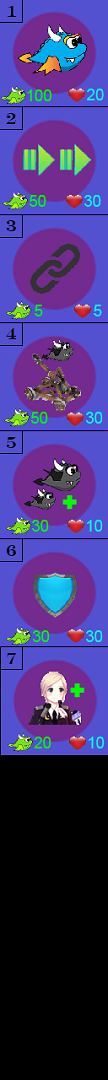
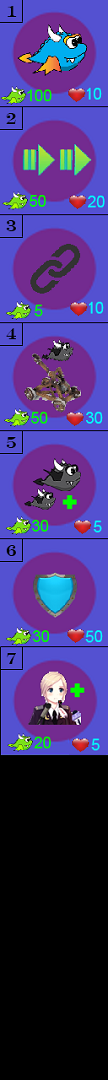
New "v7" paradigm: no Green Fluxors, player autoregen

diff --git a/Unstable/StarFighter/StarFighter/InGameState.cpp b/Unstable/StarFighter/StarFighter/InGameState.cpp
@@ -150,19 +150,19 @@ void InGameState::Initialize(Player player)
 	}
 
 	//Spawning Fluxors
-	m_fluxor_spawn_zones.push_back(FluxorSpawnZone(sf::FloatRect(0, 0, W / 2, H / 2), FLUXOR_MAX_POPULATION / 6));
-	m_fluxor_spawn_zones.push_back(FluxorSpawnZone(sf::FloatRect(0, H / 2, W / 2, H / 2), FLUXOR_MAX_POPULATION / 6));
-	m_fluxor_spawn_zones.push_back(FluxorSpawnZone(sf::FloatRect(W / 2, 0, W / 2, H / 2), FLUXOR_MAX_POPULATION / 6));
-	m_fluxor_spawn_zones.push_back(FluxorSpawnZone(sf::FloatRect(W / 2, H / 2, W / 2, H / 2), FLUXOR_MAX_POPULATION / 6));
-	//main central zone
-	for (int i = 0; i < NBVAL_PlayerTeams; i++)
-	{
-		//spawning a new lot of Fluxors based on the number of players
-		if ((*CurrentGame).playerShips[i] && i != PlayerNeutral)
-		{
-			m_fluxor_spawn_zones.push_back(FluxorSpawnZone(sf::FloatRect(W / 2 - CENTRAL_FLUXOR_ZONE_TILE_OFFSET, H / 2 - CENTRAL_FLUXOR_ZONE_TILE_OFFSET, 2 * CENTRAL_FLUXOR_ZONE_TILE_OFFSET, 2 * CENTRAL_FLUXOR_ZONE_TILE_OFFSET), FLUXOR_MAX_POPULATION / 3));
-		}
-	}
+	//m_fluxor_spawn_zones.push_back(FluxorSpawnZone(sf::FloatRect(0, 0, W / 2, H / 2), FLUXOR_MAX_POPULATION / 6));
+	//m_fluxor_spawn_zones.push_back(FluxorSpawnZone(sf::FloatRect(0, H / 2, W / 2, H / 2), FLUXOR_MAX_POPULATION / 6));
+	//m_fluxor_spawn_zones.push_back(FluxorSpawnZone(sf::FloatRect(W / 2, 0, W / 2, H / 2), FLUXOR_MAX_POPULATION / 6));
+	//m_fluxor_spawn_zones.push_back(FluxorSpawnZone(sf::FloatRect(W / 2, H / 2, W / 2, H / 2), FLUXOR_MAX_POPULATION / 6));
+	////main central zone
+	//for (int i = 0; i < NBVAL_PlayerTeams; i++)
+	//{
+	//	//spawning a new lot of Fluxors based on the number of players
+	//	if ((*CurrentGame).playerShips[i] && i != PlayerNeutral)
+	//	{
+	//		m_fluxor_spawn_zones.push_back(FluxorSpawnZone(sf::FloatRect(W / 2 - CENTRAL_FLUXOR_ZONE_TILE_OFFSET, H / 2 - CENTRAL_FLUXOR_ZONE_TILE_OFFSET, 2 * CENTRAL_FLUXOR_ZONE_TILE_OFFSET, 2 * CENTRAL_FLUXOR_ZONE_TILE_OFFSET), FLUXOR_MAX_POPULATION / 3));
+	//	}
+	//}
 }
 
 void InGameState::Update(sf::Time deltaTime)

diff --git a/Unstable/StarFighter/StarFighter/Module.cpp b/Unstable/StarFighter/StarFighter/Module.cpp
@@ -179,7 +179,7 @@ Module::Module(ModuleType moduleType, PlayerTeams team)
 		case ModuleType_Generator:
 		{	 
 			m_flux_max_under_construction = 100;
-			m_flux_max_after_construction = 20;
+			m_flux_max_after_construction = 10;
 			m_isAutogeneratingFlux = true;
 			m_flux_autogeneration_time = 0.5f;
 			m_isGeneratingFluxor = true;
@@ -191,7 +191,7 @@ Module::Module(ModuleType moduleType, PlayerTeams team)
 		case ModuleType_Armory:
 		{
 			m_flux_max_under_construction = 20;
-			m_flux_max_after_construction = 10;
+			m_flux_max_after_construction = 5;
 			m_upgrade_player_stats = true;
 			break;
 		}
@@ -209,7 +209,7 @@ Module::Module(ModuleType moduleType, PlayerTeams team)
 		case ModuleType_Relay:
 		{
 			m_flux_max_under_construction = 5;
-			m_flux_max_after_construction = 5;
+			m_flux_max_after_construction = 10;
 			m_isRefillingFlux = true;
 			m_construction_flux_per_second = 1.0f * MODULE_FLUX_CONSTRUCTION_PER_SECOND / 2;
 			break;
@@ -237,7 +237,7 @@ Module::Module(ModuleType moduleType, PlayerTeams team)
 		case ModuleType_Shield:
 		{
 			m_flux_max_under_construction = 30;
-			m_flux_max_after_construction = 30;
+			m_flux_max_after_construction = 50;
 			m_shield_range = 1;
 			break;
 		}
@@ -255,7 +255,7 @@ Module::Module(ModuleType moduleType, PlayerTeams team)
 		case ModuleType_Amplifier:
 		{
 			m_flux_max_under_construction = 30;
-			m_flux_max_after_construction = 10;
+			m_flux_max_after_construction = 5;
 			m_add_flux = 1;
 			break;
 		}

diff --git a/Unstable/StarFighter/StarFighter/FluxEntity.cpp b/Unstable/StarFighter/StarFighter/FluxEntity.cpp
@@ -122,16 +122,19 @@ bool FluxEntity::AutogenerateFlux()
 				m_flux++;
 				m_flux_autogeneration_clock.restart();
 
-				//feedback
-				if (USE_FEEDBACK_AUTOGENERATION)
+				if (m_flux_max > 0)
 				{
-					SFText* text_feedback = new SFText((*CurrentGame).m_fonts[Font_Arial], 24, sf::Color::Cyan, getPosition(), m_team);
-					text_feedback->m_alliance = m_alliance;
-					text_feedback->setString("+1");
-					SFTextPop* pop_feedback = new SFTextPop(text_feedback, TEXT_POP_DISTANCE_NOT_FADED, TEXT_POP_DISTANCE_FADE_OUT, TEXT_POP_TOTAL_TIME, NULL, sf::Vector2f(0, 0));
-					pop_feedback->setPosition(sf::Vector2f(getPosition().x - pop_feedback->getGlobalBounds().width / 2, getPosition().y));
-					delete text_feedback;
-					(*CurrentGame).addToFeedbacks(pop_feedback);
+					//feedback
+					if (USE_FEEDBACK_AUTOGENERATION)
+					{
+						SFText* text_feedback = new SFText((*CurrentGame).m_fonts[Font_Arial], 24, sf::Color::Cyan, getPosition(), m_team);
+						text_feedback->m_alliance = m_alliance;
+						text_feedback->setString("+1");
+						SFTextPop* pop_feedback = new SFTextPop(text_feedback, TEXT_POP_DISTANCE_NOT_FADED, TEXT_POP_DISTANCE_FADE_OUT, TEXT_POP_TOTAL_TIME, NULL, sf::Vector2f(0, 0));
+						pop_feedback->setPosition(sf::Vector2f(getPosition().x - pop_feedback->getGlobalBounds().width / 2, getPosition().y));
+						delete text_feedback;
+						(*CurrentGame).addToFeedbacks(pop_feedback);
+					}
 				}
 
 				return true;

diff --git a/Unstable/StarFighter/StarFighter/Ship.cpp b/Unstable/StarFighter/StarFighter/Ship.cpp
@@ -24,13 +24,14 @@ void Ship::Init()
 	m_flux_transfer_time = 0.1f;
 	m_flux_autogeneration_time = 1.f;
 	m_upgrade_level = 0;
+	m_isAutogeneratingFlux = true;
+	m_flux_autogeneration_time = 0.1f;
 
 	//Flux display
-	m_flux_text = new SFText((*CurrentGame).m_fonts[Font_Arial], 20, sf::Color::Green, sf::Vector2f(getPosition().x, getPosition().y + m_size.y / 2 + PLAYER_FLUX_DISPLAY_OFFSET_Y), m_team);
+	m_flux_text = new SFText((*CurrentGame).m_fonts[Font_Arial], 24, sf::Color::Green, sf::Vector2f(getPosition().x, getPosition().y + m_size.y / 2 + PLAYER_FLUX_DISPLAY_OFFSET_Y), m_team);
 	m_flux_text->m_alliance = m_alliance;
 	
 	(*CurrentGame).addToFeedbacks(m_flux_text);
-	
 	
 	//AddFluxGauge(GaugeStyle_Green, sf::Vector2f(0, m_size.y / 2 + PLAYER_FLUX_DISPLAY_OFFSET_Y));
 	//(*CurrentGame).addToFeedbacks(m_flux_gauge);
@@ -134,7 +135,9 @@ void Ship::update(sf::Time deltaTime)
 	if (m_flux_text)
 	{
 		ostringstream ss;
-		ss << m_flux << "/" << m_flux_max;
+		ss << m_flux;
+		if (m_flux_max > 0)
+			ss << "/" << m_flux_max;
 		m_flux_text->setString(ss.str());
 		m_flux_text->setPosition(sf::Vector2f(getPosition().x - m_flux_text->getGlobalBounds().width / 2, getPosition().y + m_size.y / 2 + PLAYER_FLUX_TEXT_OFFSET_Y));
 

diff --git a/Unstable/StarFighter/StarFighter/Globals.h b/Unstable/StarFighter/StarFighter/Globals.h
@@ -110,9 +110,9 @@ enum TeamAlliances
 #define BUILD_GAUGE_OUTLINE_COLOR_A					255
 
 //PLAYER
-#define SHIP_MAX_FLUX								100
-#define SHIP_MAX_FLUX_BONUS_PER_LEVEL				100
-#define SHIP_MAX_SPEED_BONUS_PER_LEVEL				100
+#define SHIP_MAX_FLUX								0
+#define SHIP_MAX_FLUX_BONUS_PER_LEVEL				0
+#define SHIP_MAX_SPEED_BONUS_PER_LEVEL				50
 #define SHIP_MAX_UPGRADE_LEVEL						9
 
 #define SHIP_START_X                990
